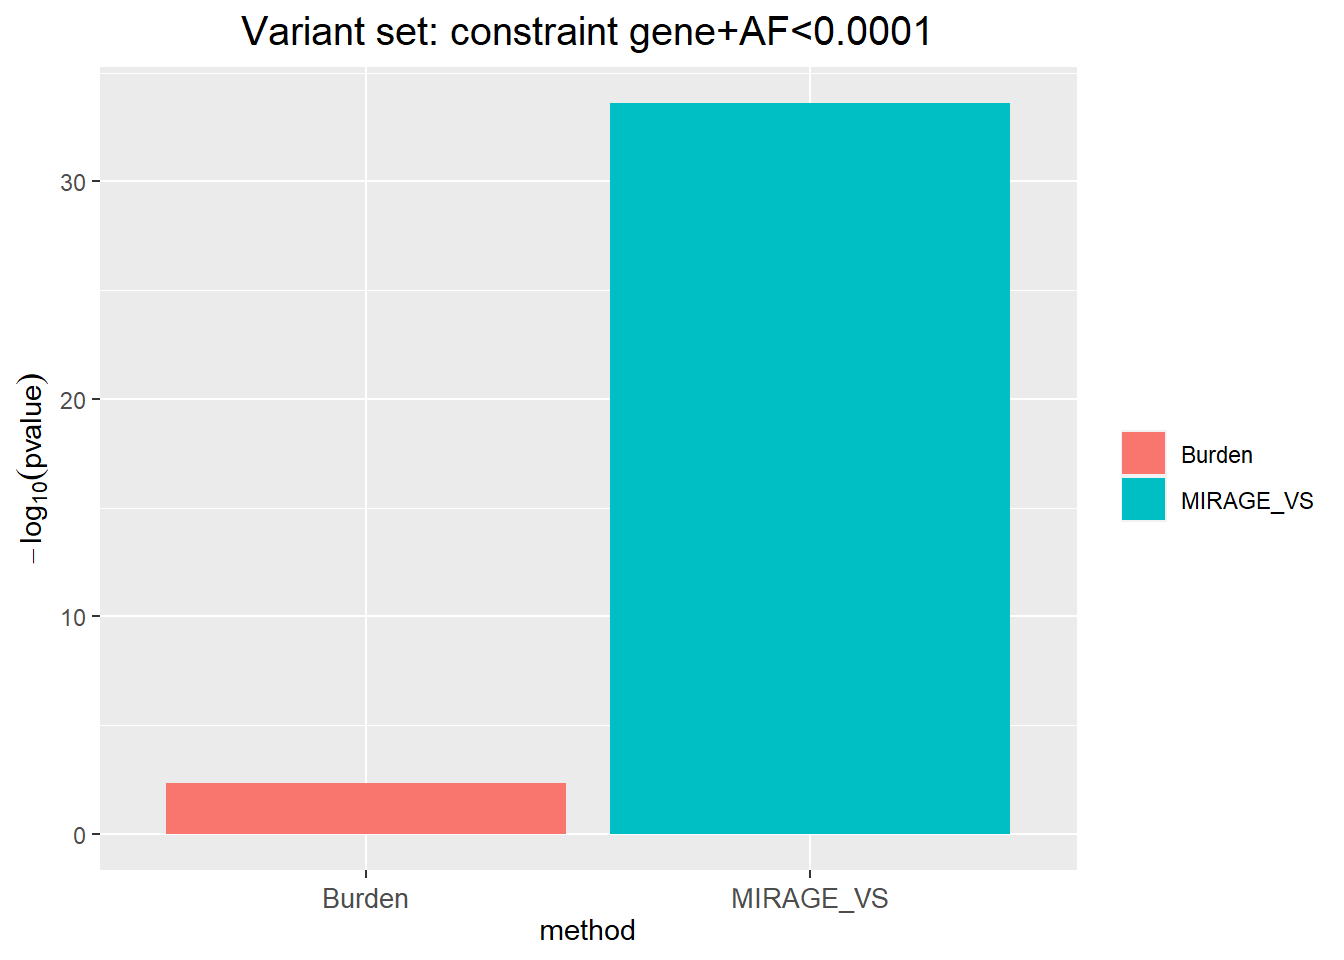
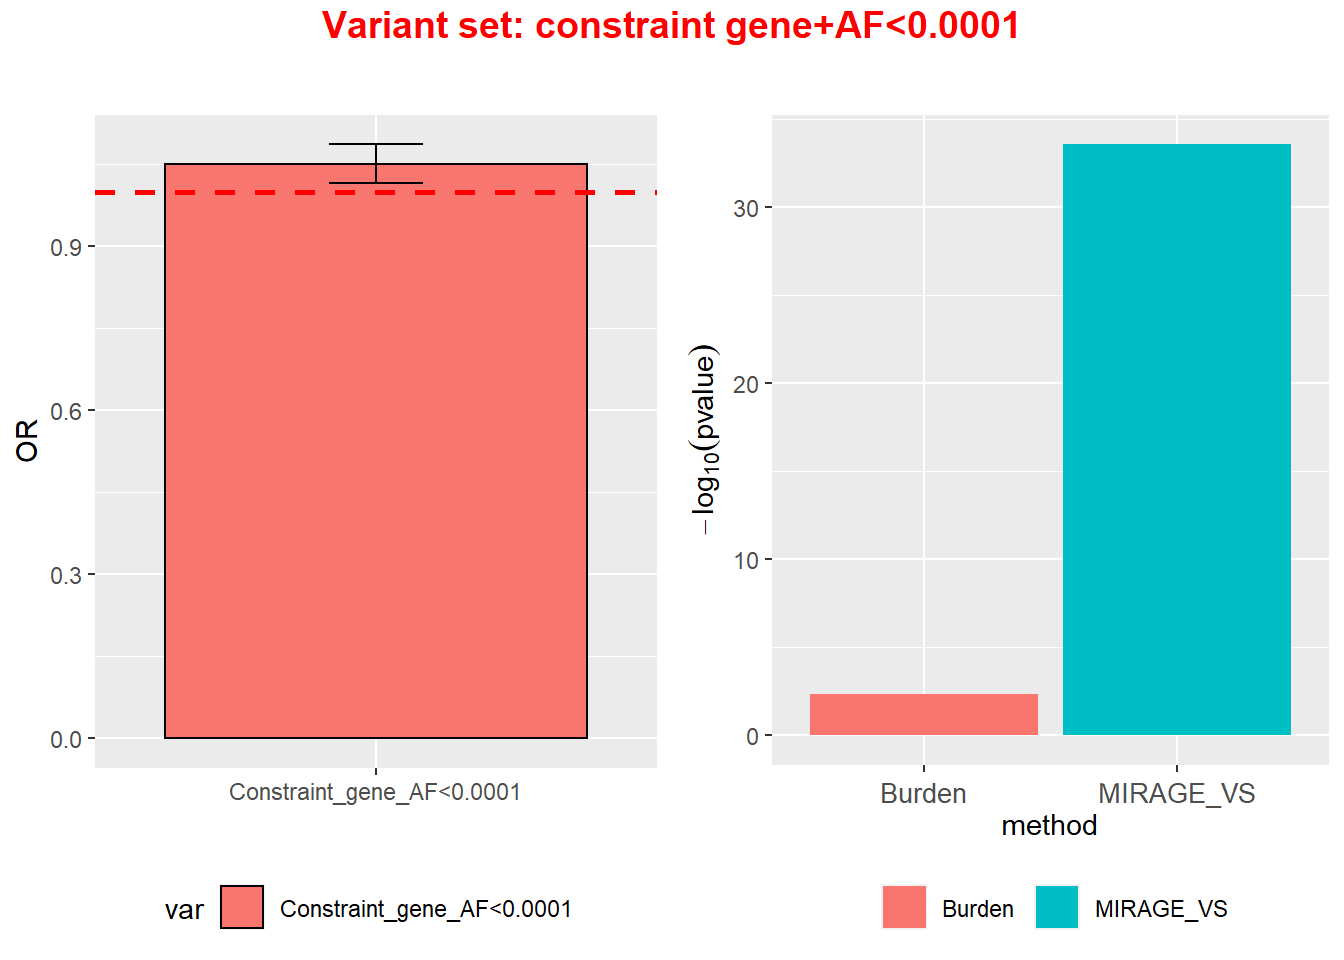
8/31/2022

diff --git a/docs/ASC_new_sample_gene_set.html b/docs/ASC_new_sample_gene_set.html
@@ -766,28 +766,17 @@ class="math inline">\(7.814873e-09\)</span></td>
 <li><p><code>isSyn=="FALSE"</code></p></li>
 <li><p><code>isIndel=="FALSE" &amp; QD &gt;= 10 &amp; AS_SOR &lt;= 3 &amp; AS_ReadPosRankSum &gt;= -0.8</code></p></li>
 </ul>
-<div id="burden-analysis-for-variants-in-constrant-genes-with-af10e-4"
+<div id="one-variant-set-constrant-genes-af10e-4"
 class="section level3">
-<h3>Burden analysis for variants in constrant genes with
-AF&lt;10E-4</h3>
+<h3>One variant set: constrant genes+ AF&lt;10E-4</h3>
 <ul>
 <li><p>In old sample, we observe signal in constraint genes with <span
 class="math inline">\(AF&lt;10^{-4}\)</span>.</p></li>
 <li><p>in new sample, there are 99333 transmitted variants and 94575
 untransmitted variants.</p></li>
-</ul>
-<p><img src="ASC_new_sample_gene_set_files/figure-html/unnamed-chunk-20-1.png" width="672" /></p>
-</div>
-<div
-id="run-mirage_vs-on-all-variants-in-constraint-genes-with-af10e-4-in-one-group"
-class="section level3">
-<h3>Run MIRAGE_VS on all variants in constraint genes with AF&lt;10E-4
-in one group</h3>
-<ul>
 <li><p>Put all variants with AF&lt;10E-4 in one category and run
 MIRAGE_VS. <span class="math inline">\(\widehat{\eta}=0.0882\)</span>, p
 value is <span class="math inline">\(2.585515e-34\)</span>.</p></li>
-<li><p>Burden p value vs MIRAGE_VS p value</p></li>
 </ul>
 <p><img src="ASC_new_sample_gene_set_files/figure-html/unnamed-chunk-22-1.png" width="672" /></p>
 </div>
